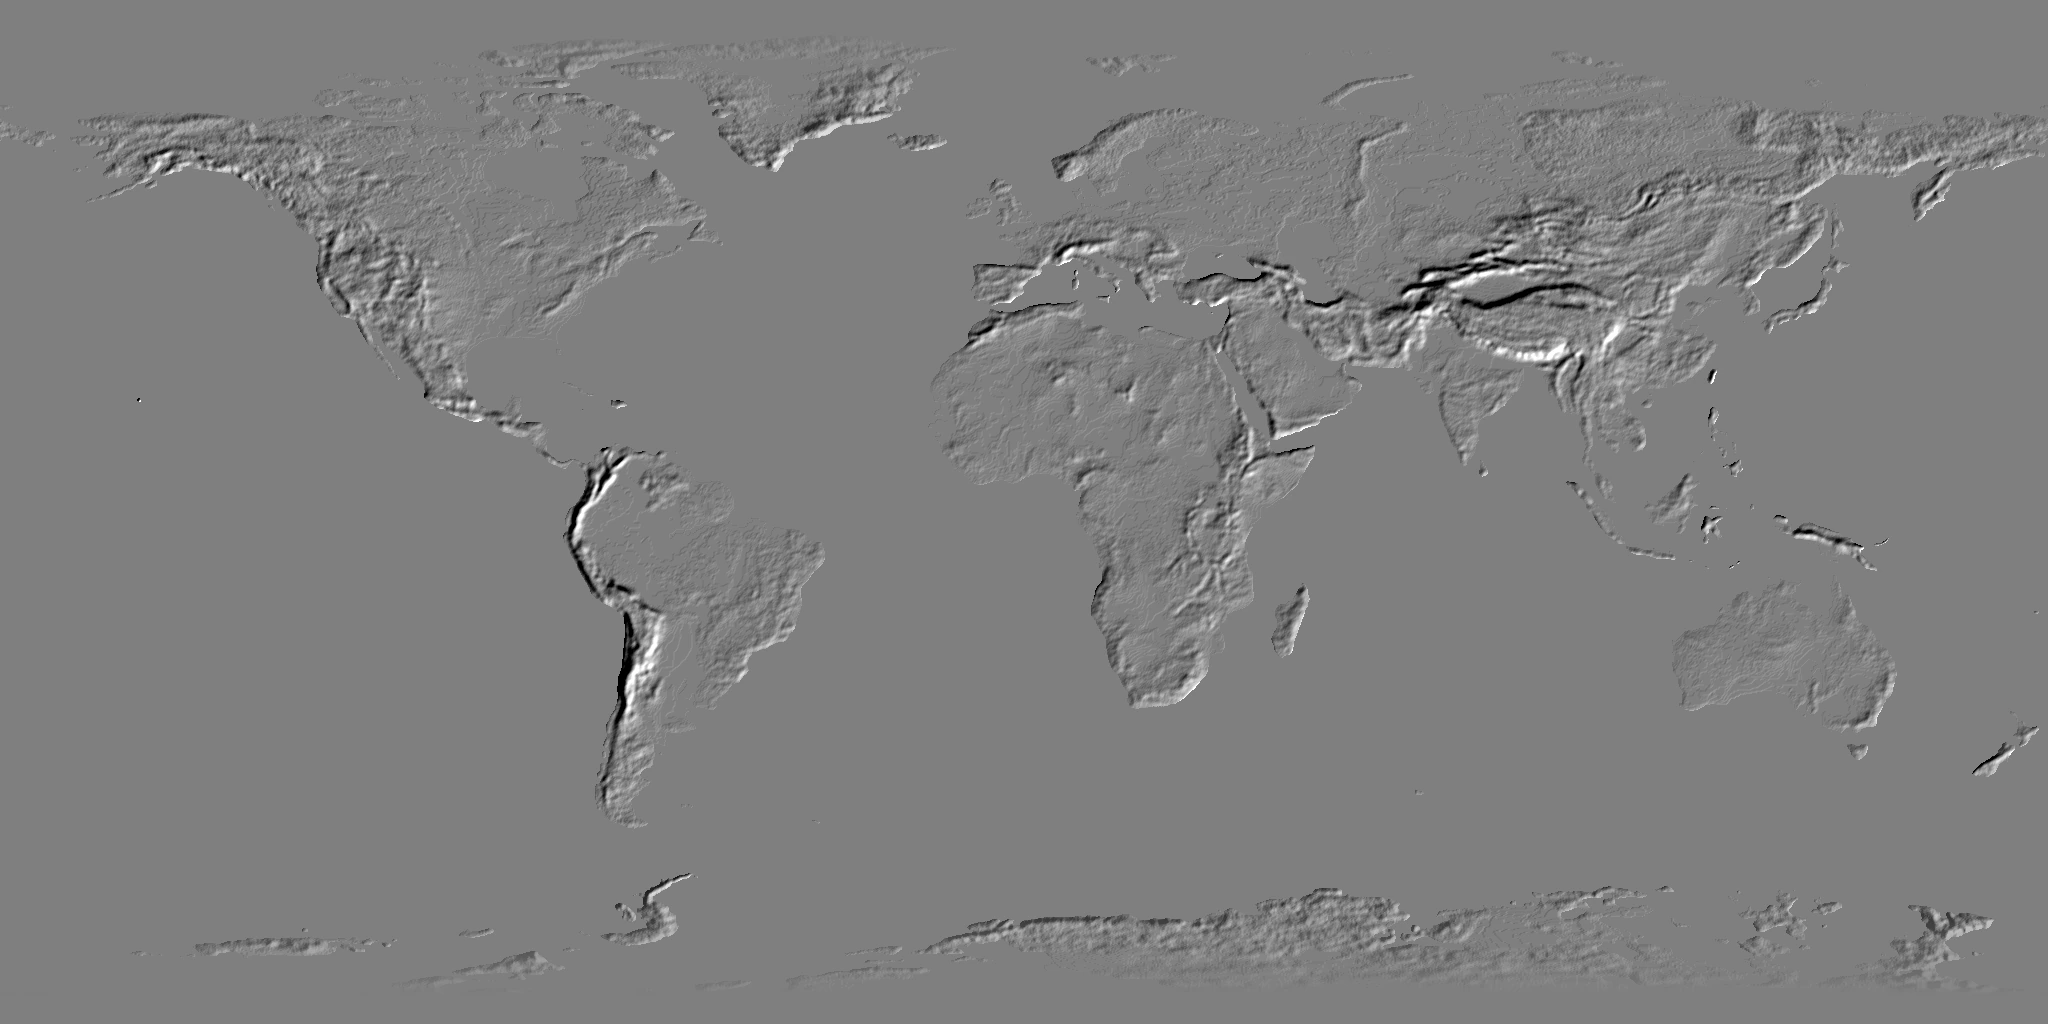
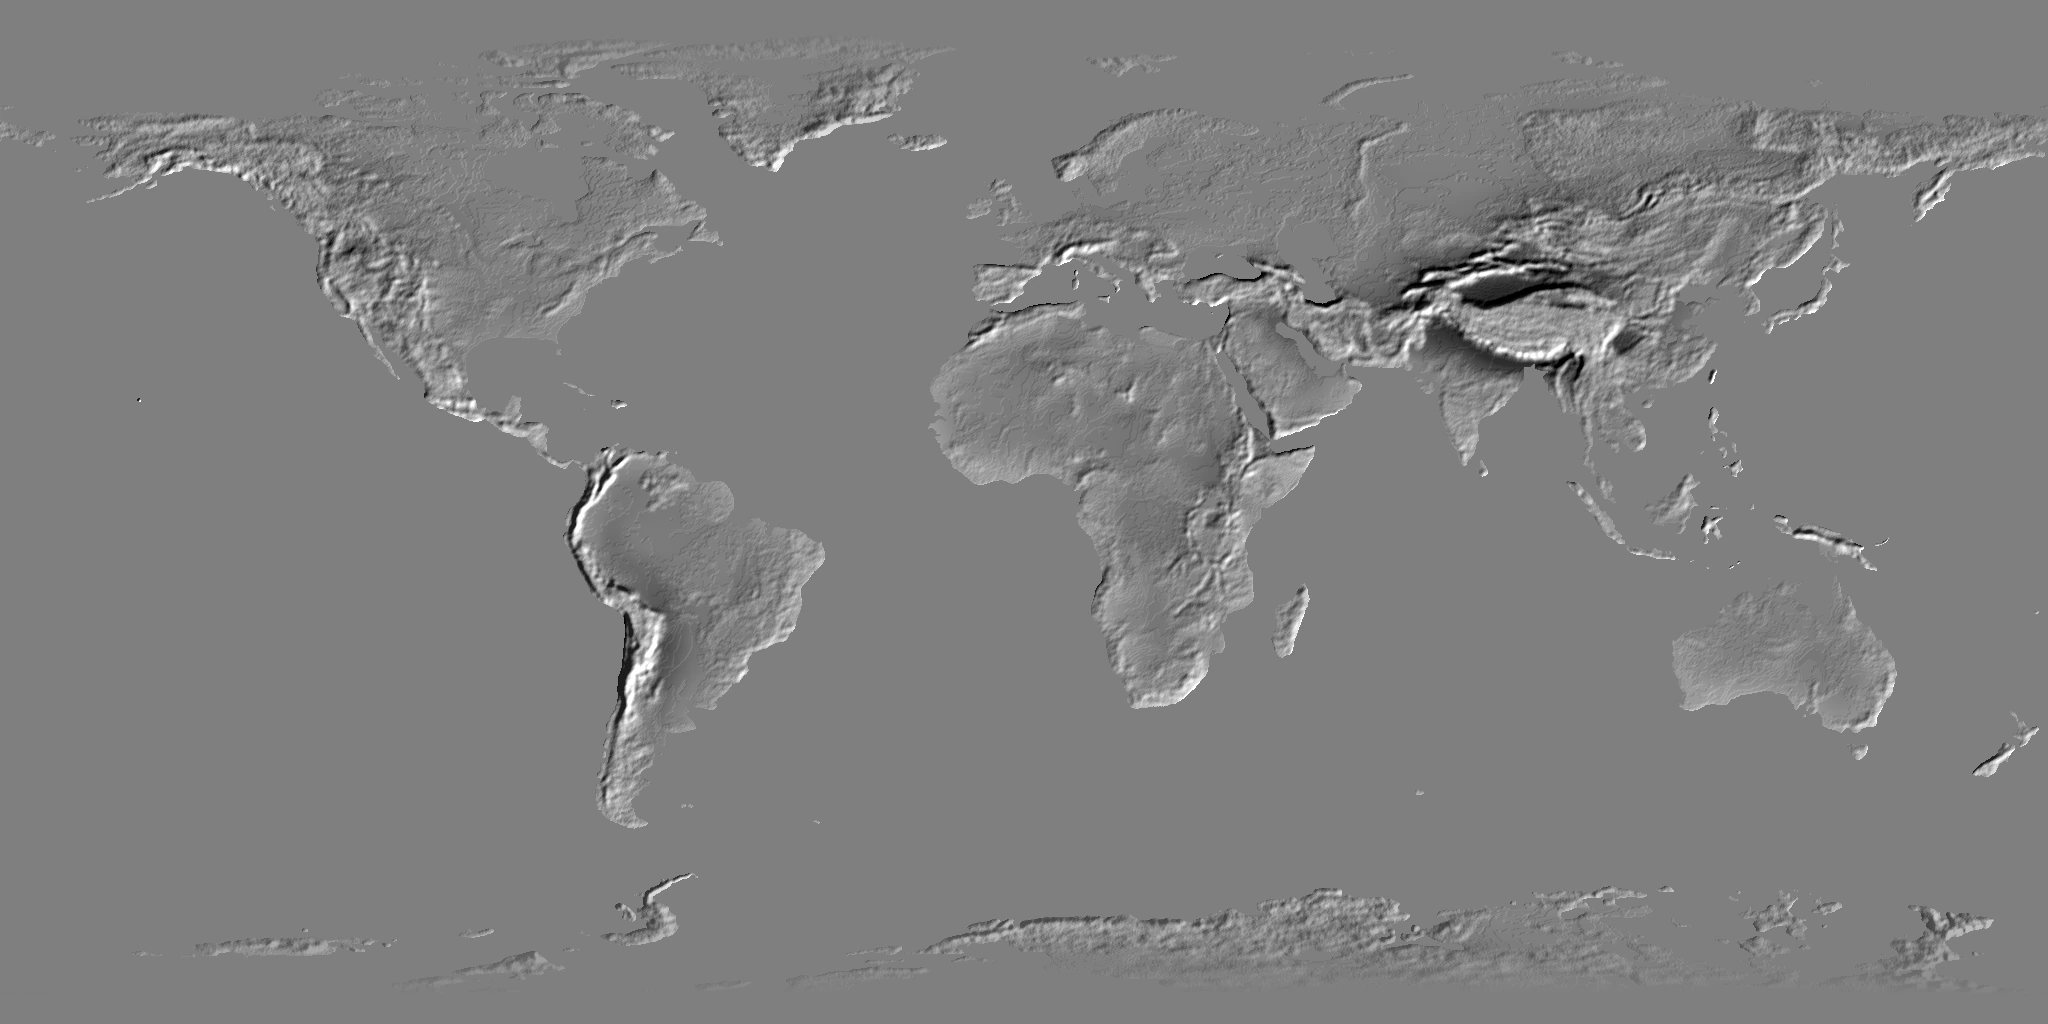
地形山影加地势项：盆地不再像台地、高原不再像洼地
单方向 hillshade 只说明'这面坡朝哪边受光'，不说明'比周围高还是低'。
塔里木盆地四周山脊一暗、中间平坦处留亮，整块就被读成抬起的台地；
青藏高原则被压暗读成洼地。

- 用地势项 TPI（半径 770km 的局部均值差）补一层'绝对高低'：
  比周围低 → 压暗，比周围高 → 提亮
- 正负权重不对称：低洼 0.32、高处 0.11 —— 高原那片本来就在雪线以上
  是纯白，对称提亮会糊成死白、山脉细节全丢（实测过）
- 实测：塔里木 0.18 / 四川盆地 0.26 / 青藏 0.60 / 黄土高原 0.48

diff --git a/index.html b/index.html
@@ -3,7 +3,7 @@
 <head>
 <meta charset="utf-8">
 <meta name="viewport" content="width=device-width, initial-scale=1, viewport-fit=cover">
-<meta name="build" content="2026-11-23-GP">
+<meta name="build" content="2026-11-23-GQ">
 <link rel="icon" type="image/png" href="assets/favicon.png">
 <link rel="apple-touch-icon" href="assets/favicon.png">
 <!-- OBS 是图片/音频/贴图的唯一源站。提早点亮 DNS 和 TLS：
@@ -7223,7 +7223,7 @@ body.climate-layer-on #tools{z-index:44}
     'temp.webp': 'dc0c15ce',
     'terrain-lo.webp': '1439af05',
     'terrain.webp': '124b640d',
-    'terrain-shade.webp': '8cbfd7e9',
+    'terrain-shade.webp': 'eed416a2',
     /* TEX_VER:end */
   };
 

diff --git a/scripts/build_terrain_shade.py b/scripts/build_terrain_shade.py
@@ -10,9 +10,9 @@ elev.png 的编码（前端 probeElevAt 已用同一套）：
     h = R*256 + G - 32768   （单位：米）
 
 输出 assets/tex/terrain-shade.webp：2048x1024 灰度
-    · 陆地：标准 GIS hillshade（方位 315°、高度角 45°），0..1
+    · 陆地：标准 GIS hillshade（方位 315°、高度角 45°）+ 大尺度地势项（TPI），0..1
     · 海洋：0.5（中性，叠加时不变亮也不变暗）
-shader 里按 col *= 0.55 + 0.9 * hs 使用，hs=0.5 恰好等于 1.0。
+shader 里按 col *= 0.10 + 1.64 * hs 使用（中性点 0.55）。
 """
 import os
 import numpy as np
@@ -58,6 +58,30 @@ hs = (np.cos(zen) * np.cos(slope) +
       np.sin(zen) * np.sin(slope) * np.cos(az - aspect))
 hs = np.clip(hs, 0.0, 1.0)
 
+# --- 局部地势（TPI）：让"高"看起来真的是高的 ---
+# 单方向 hillshade 只回答"这面坡朝哪边"，不回答"这儿比周围高还是低"。
+# 塔里木盆地四周是山脊，山影把四边压暗、中间平坦处留亮 —— 整块就被读成
+# 抬起来的台地；青藏高原则因为面积太大、光又偏西南，反而整片压暗像洼地。
+# 这就是用户说的"盆地看上去是凸起、高原反而像盆地"。
+# 用大半径（约 2400km）的局部均值差（TPI）给一层"绝对地势"：
+#   比周围低（盆地、谷地）→ 压暗；比周围高（高原、山脊）→ 提亮。
+def box_mean(arr, r):
+    """半径 r 的方形窗口均值，走积分图，float64 防累加丢精度。"""
+    a64 = np.pad(arr.astype(np.float64), r, mode='edge')
+    ii = np.cumsum(np.cumsum(a64, axis=0), axis=1)
+    ii = np.pad(ii, ((1, 0), (1, 0)))
+    k = 2 * r + 1
+    total = ii[k:, k:] - ii[:-k, k:] - ii[k:, :-k] + ii[:-k, :-k]
+    return (total / (k * k)).astype(np.float32)
+
+# 半径 40px ≈ 7° ≈ 770km：窗口刚好把盆地的边缘山地包进来，
+# 盆地中心就会稳定落在 -1400~-1600m（半径 120px 时塔里木只剩 -113m，
+# 因为窗口比盆地本身还大，均值和中心一样）。实测 r=40 时：
+#   塔里木 -1623、四川盆地 -1371、青藏高原 +1440、喜马拉雅 +1399、华北平原 -512
+TPI_R = 40
+tpi = h - box_mean(h, TPI_R)
+tpi_n = np.clip(tpi / 1600.0, -1.0, 1.0)     # ±1600m 归一化
+
 # --- 海洋压成中性，深海不该有"山影" ---
 sea = h < 0.0
 hs[sea] = 0.5
@@ -70,6 +94,17 @@ land0 = hs[~sea]
 med = float(np.median(land0))
 hs[~sea] = np.clip(0.5 + (land0 - med) * 4.2, 0.0, 1.0)
 
+# 叠加地势项：盆地/谷地压暗、高原/山脊提亮（在 0..1 的 hs 空间里）。
+# 0.14 时数值上已经拉开（塔里木 0.36 / 青藏 0.63），但看屏幕还是分不出 ——
+# 分层设色本身就"低地黄绿、山地深棕"，低地底色浅、山地底色深，
+# 正好把这层明暗抵掉一半。所以一路加到 0.30，才压得住色带。
+# 正负不对称：低洼要压得狠（要靠它把"盆地像台地"的错觉掰回来），
+# 高处只轻轻提 —— 高原那片本来就是雪线以上的纯白，再提就糊成一片死白，
+# 山脉细节全丢了（0.30 对称那版实测就是这样）。
+_tn = tpi_n[~sea]
+hs[~sea] = np.clip(hs[~sea] + 0.32 * np.clip(_tn, -1, 0)
+                   + 0.11 * np.clip(_tn, 0, 1), 0.0, 1.0)
+
 # --- 极区 cos(lat) → 0，梯度会炸成条纹；按纬度把强度收掉 ---
 latk = np.clip((np.abs(np.linspace(90, -90, H)) - 60.0) / 25.0, 0.0, 1.0)[:, None]
 hs = hs * (1.0 - latk) + 0.5 * latk
@@ -81,3 +116,13 @@ print('hs min/mean/max %.3f %.3f %.3f' % (hs.min(), hs.mean(), hs.max()))
 land = hs[~sea]
 print('land hs p1/p10/p50/p90/p99: %.3f %.3f %.3f %.3f %.3f' % tuple(
     np.percentile(land, [1, 10, 50, 90, 99])))
+
+# 抽查：盆地应当明显比高原暗
+def at(lon, lat):
+    x = int((lon + 180) / 360 * W); y = int((90 - lat) / 180 * H)
+    return hs[y, x]
+for k, (lo, la) in {'塔里木盆地': (83, 39), '四川盆地': (105, 30),
+                    '青藏高原': (88, 33), '黄土高原': (108, 36),
+                    '华北平原': (116, 37)}.items():
+    print('  %s hs=%.3f tpi=%+.0fm' % (k, at(lo, la),
+          tpi[int((90 - la) / 180 * H), int((lo + 180) / 360 * W)]))
